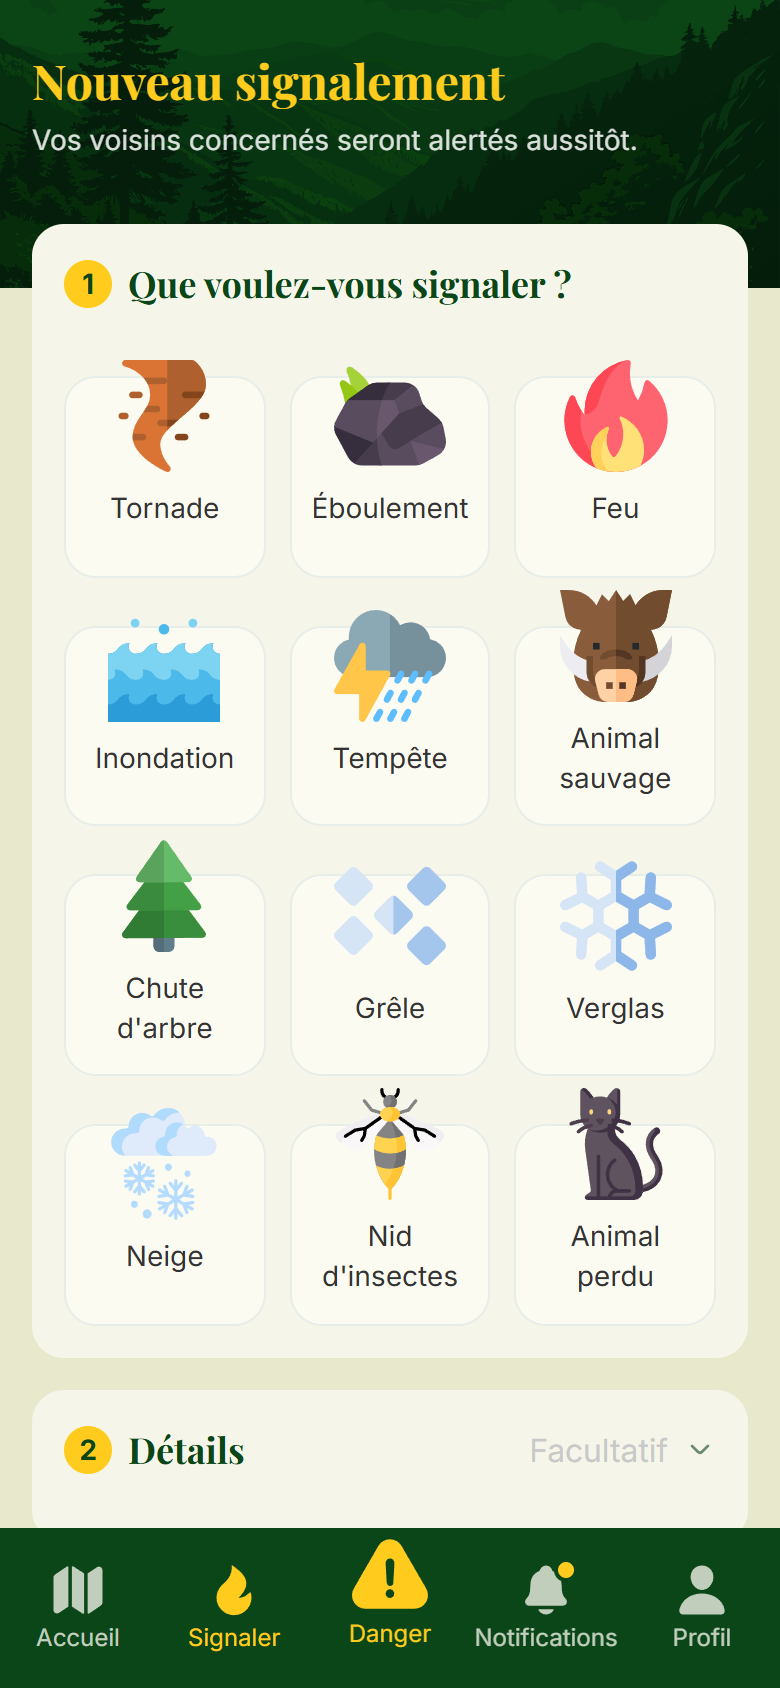
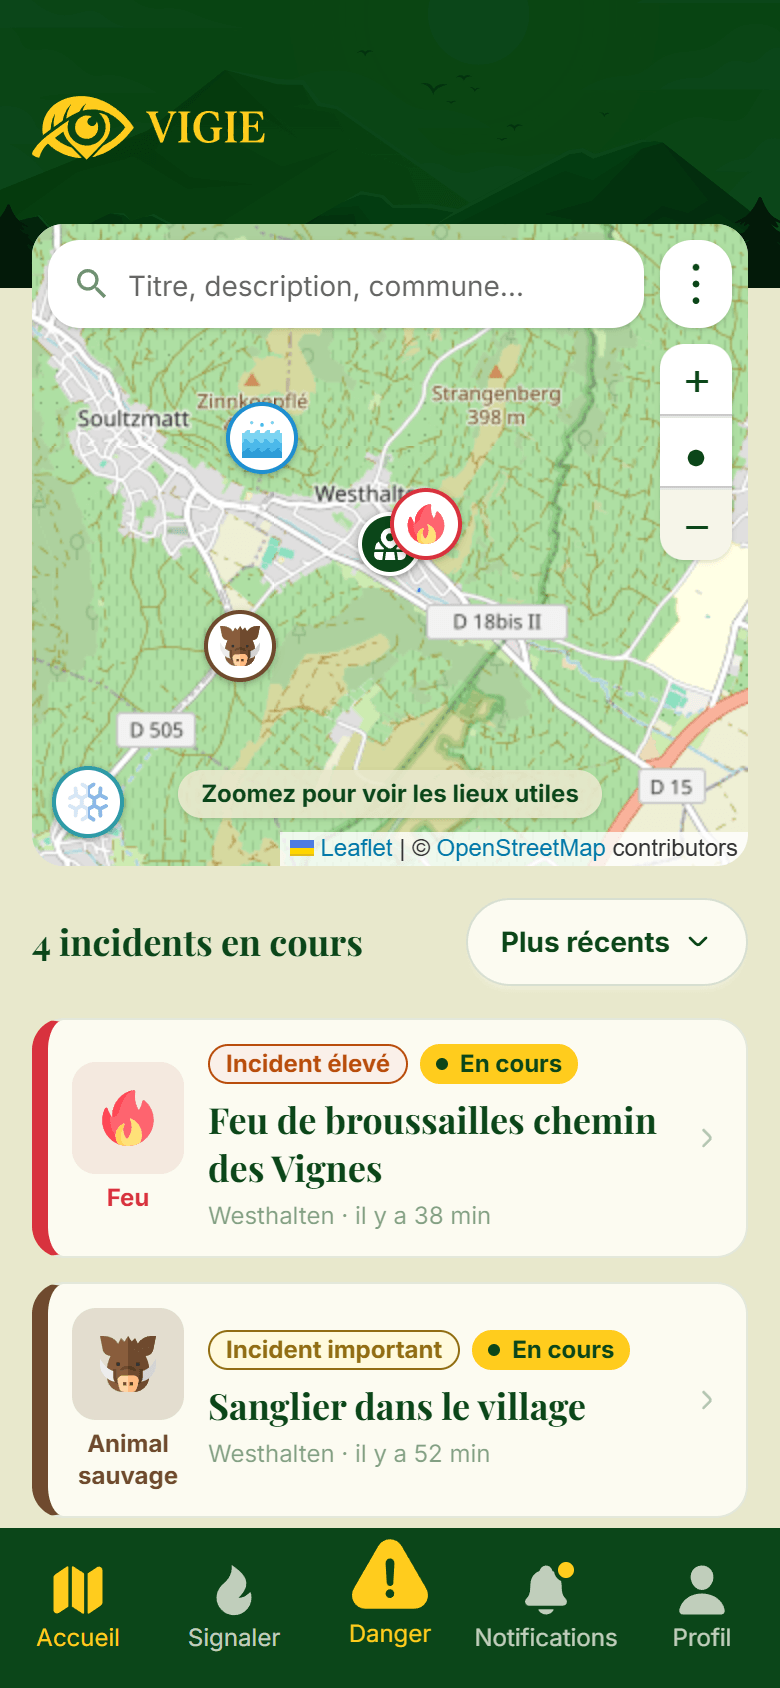
docs: adjust screenshot gallery layout and recapture mobile view

diff --git a/README.md b/README.md
@@ -4,11 +4,16 @@ Neighbourhood alert app for natural hazards — a neighbour reports a fire,
 flood, storm or stray animal, and everyone living inside the affected radius
 is notified within the minute.
 
-![Vigie — map view](docs/screenshots/map.png)
+<img src="docs/screenshots/map.png" alt="Vigie — map view" width="100%">
 
-| Incident detail | Design system | Mobile |
-|---|---|---|
-| ![Incident detail](docs/screenshots/incident.png) | ![Design system](docs/screenshots/design-system.png) | ![Mobile](docs/screenshots/mobile.png) |
+<p>
+  <img src="docs/screenshots/incident.png" alt="Incident detail" width="49%">
+  <img src="docs/screenshots/design-system.png" alt="Design system" width="49%">
+</p>
+
+<p align="center">
+  <img src="docs/screenshots/mobile.png" alt="Mobile view" width="260">
+</p>
 
 ## Why
 
